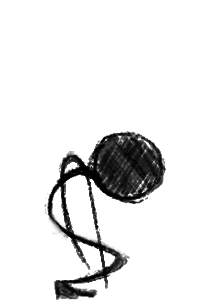
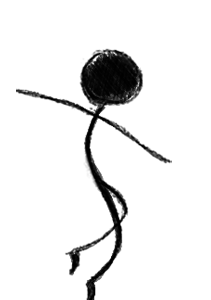
Added new jump frames
New jump frames added to solution. Jump animation is now loopable.

Changed region(s): [[0.0569, 0.15, 0.8246, 1.0]]

diff --git a/META/META/META/Engine/Sprites/SpriteManager.cs b/META/META/META/Engine/Sprites/SpriteManager.cs
@@ -28,7 +28,7 @@ namespace META.Engine.Sprites
 			Sprites.Add(new Sprite(SpriteID.Black, GetTextures(content, "Blackness", 1), 60));
 			Sprites.Add(new Sprite(SpriteID.PlayerIdle, GetTextures(content, "Player/Idle/MainCharacter_Idle", 15), 15));
 			Sprites.Add(new Sprite(SpriteID.PlayerWalk, GetTextures(content, "Player/Run/MainCharacter_Run", 8), 15));
-			Sprites.Add(new Sprite(SpriteID.PlayerJump, GetTextures(content, "Player/Jump/MainCharacter_Jump", 5), 10, false));
+			Sprites.Add(new Sprite(SpriteID.PlayerJump, GetTextures(content, "Player/Jump/MainCharacter_Jump", 6), 10));
             Sprites.Add(new Sprite(SpriteID.PlayerJump, GetTextures(content, "AchievementBG", 1), 60));
 		}
 
